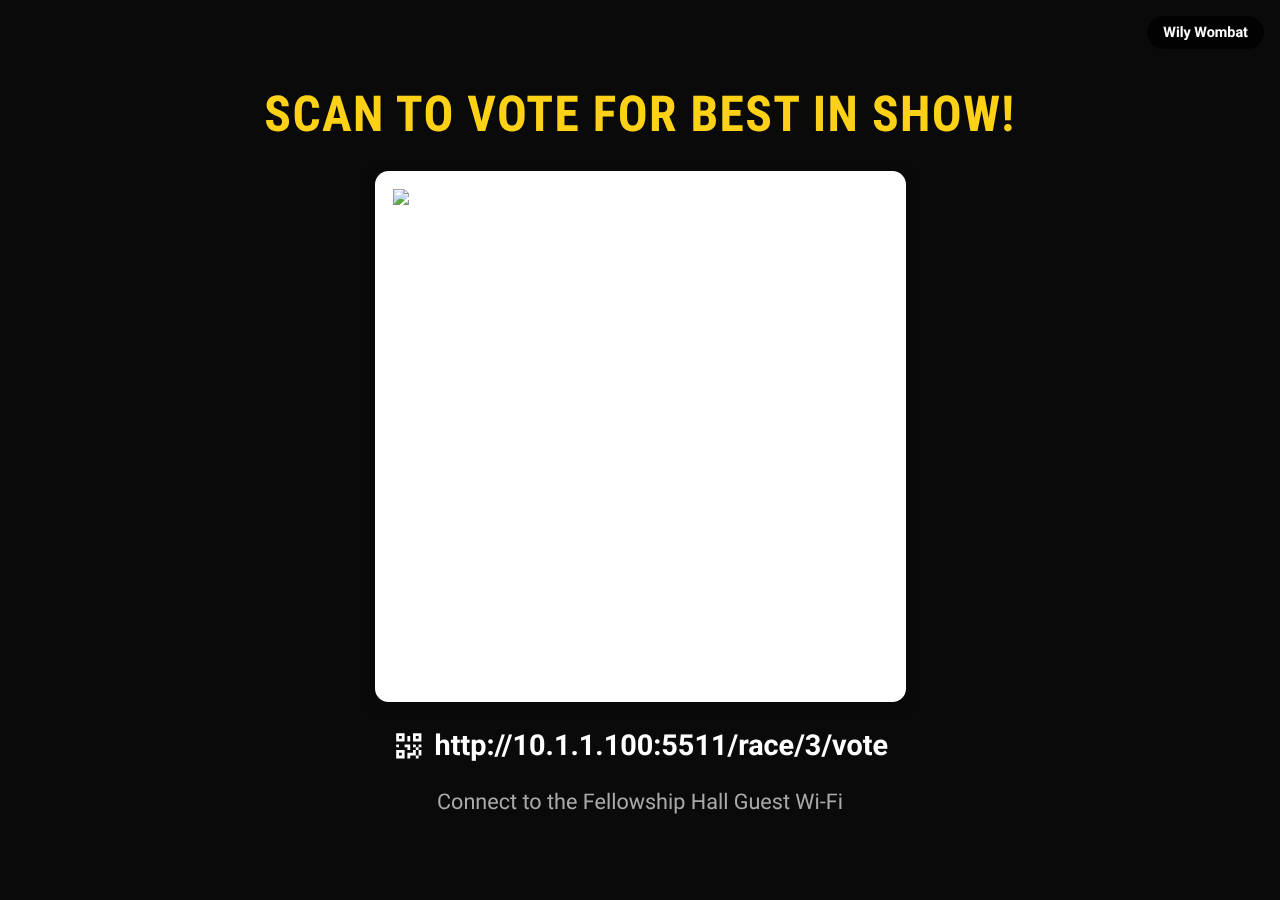
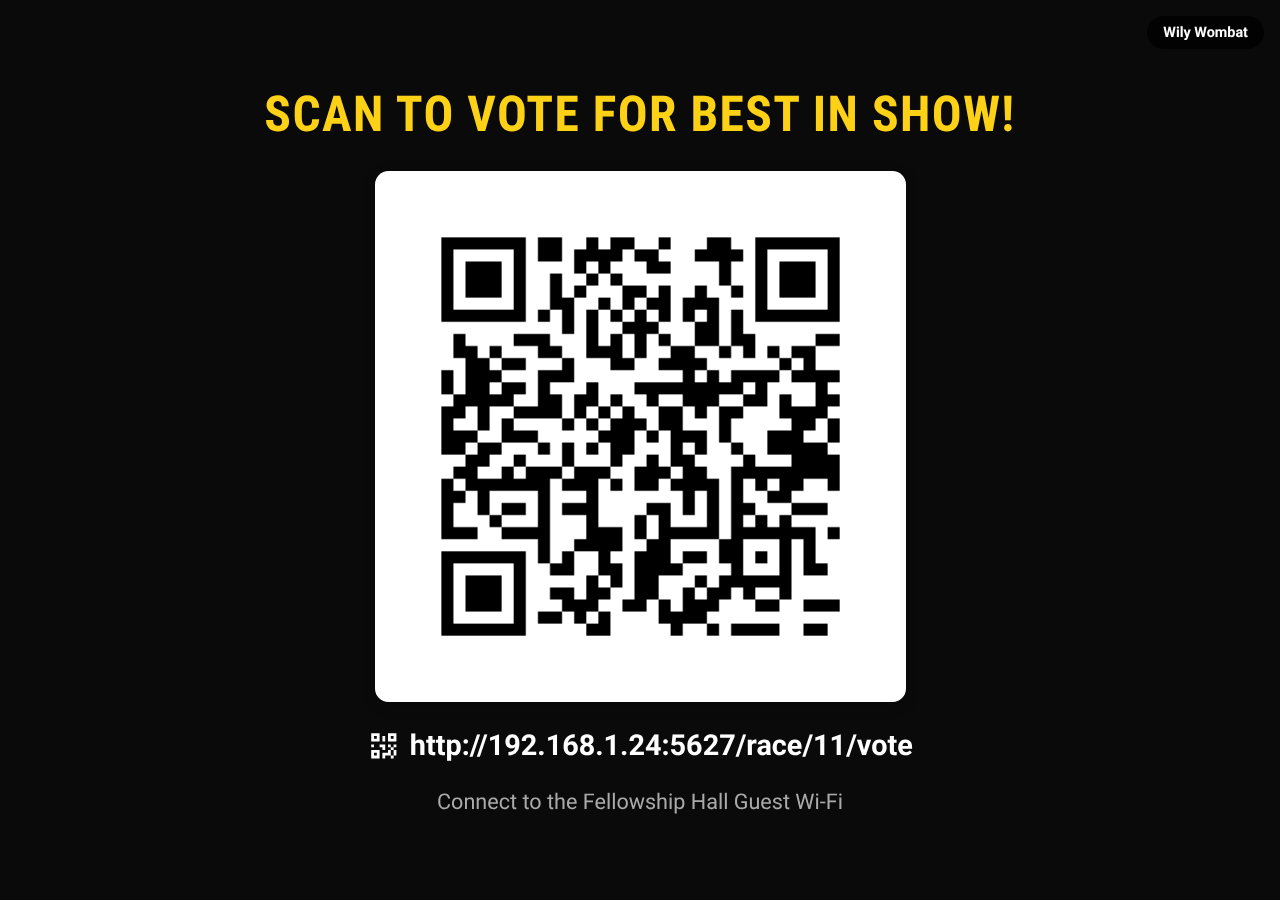
Vote QR: accept the page's own port, and degrade instead of a broken image
The frontend builds the QR code's `url` from window.location.port — the
port the page loaded on — but /printables/vote-qr's port check only ever
trusted request.url.port, the port the backend answered on. Those agree in
a single-process production install, and disagree under the Vite dev proxy
(and the e2e/docs-screenshot run that inherits it), because changeOrigin
rewrites the Host header the backend sees. The published docs were built
by that run, so observation/08-displays-panel.png and observation/13-qrcode.png
showed a broken image.

_validate_vote_qr_url now also trusts the port named in a Referer or Origin
header, but only for a host the request has already proven belongs to this
instance (the same allowed_hosts set #866/#922 built) — so forging the
header can widen which port is accepted, never which host, which is the
guarantee #922 exists to protect. New tests cover both: a page-port match
via Referer is accepted, and a phishing host is still refused even with a
matching Referer.

ConnectDisplayAddress, BallotShare and QRCodeDisplayView all gained
onError on their <img>, so a refused code degrades to the address already
printed alongside it (the full-screen display view enlarges it and says to
type it) rather than to alt text on a projector.

Regenerated observation/08-displays-panel.png and observation/13-qrcode.png,
which are on the drift gate's exclusion list (#925) — confirmed they are
still non-deterministic under the full parallel doc-screenshot run (the
[…]

Changed region(s): [[0.3438, 0.2489, 0.6562, 0.7156], [0.2812, 0.8089, 0.7188, 0.84]]

diff --git a/frontend/src/features/observation/components/QRCodeDisplayView.tsx b/frontend/src/features/observation/components/QRCodeDisplayView.tsx
@@ -16,6 +16,7 @@
  * display and its ballot, the same two pages the backend's own guard allows.
  */
 
+import { useState } from 'react';
 import { useQuery } from 'urql';
 import { Icon } from '@mdi/react';
 import { mdiAlertOutline, mdiQrcode } from '@mdi/js';
@@ -37,6 +38,7 @@ interface Props {
 
 export default function QRCodeDisplayView({ raceId, target, headline, wifiNote }: Props) {
     const [result] = useQuery({ query: NETWORK_ADDRESSES_QUERY });
+    const [qrFailed, setQrFailed] = useState(false);
     const networkAddresses = result.data?.networkAddresses ?? [];
     const mdnsHostname = result.data?.mdnsHostname ?? null;
 
@@ -48,6 +50,7 @@ export default function QRCodeDisplayView({ raceId, target, headline, wifiNote }
     const path = qrTargetPath(target, raceId);
     const { url, reachable } = shareUrl(window.location.origin, path, networkAddresses, mdnsHostname);
     const line = resolveQrHeadline(headline, target);
+    const showQr = reachable && !qrFailed;
 
     return (
         <div
@@ -75,8 +78,9 @@ export default function QRCodeDisplayView({ raceId, target, headline, wifiNote }
                 {line}
             </h1>
 
-            {reachable ? (
+            {showQr ? (
                 <img
+                    key={url}
                     src={qrCodeSrc(raceId, url)}
                     alt={`QR code that opens ${url}`}
                     style={{
@@ -87,6 +91,7 @@ export default function QRCodeDisplayView({ raceId, target, headline, wifiNote }
                         borderRadius: '1.5vmin',
                         boxShadow: '0 0.4vmin 1.5vmin rgba(0,0,0,0.2)',
                     }}
+                    onError={() => setQrFailed(true)}
                 />
             ) : (
                 <div
@@ -102,9 +107,9 @@ export default function QRCodeDisplayView({ raceId, target, headline, wifiNote }
                 >
                     <Icon path={mdiAlertOutline} size={3} />
                     <span style={{ fontSize: '2.4vmin' }}>
-                        Trusty Track could not find this machine&apos;s network address. Try
-                        typing the address below into a phone&apos;s browser to check whether it
-                        works from this venue&apos;s Wi-Fi.
+                        {reachable
+                            ? "Trusty Track could not draw a QR code for this address. Type the address below into a phone's browser instead."
+                            : "Trusty Track could not find this machine's network address. Try typing the address below into a phone's browser to check whether it works from this venue's Wi-Fi."}
                     </span>
                 </div>
             )}

diff --git a/frontend/src/features/observation/components/QRCodeDisplayView.test.tsx b/frontend/src/features/observation/components/QRCodeDisplayView.test.tsx
@@ -1,7 +1,7 @@
 // @vitest-environment jsdom
 import '../../../setupTests';
 import { afterEach, beforeEach, describe, expect, it, vi } from 'vitest';
-import { render, screen, cleanup } from '@testing-library/react';
+import { act, render, screen, cleanup } from '@testing-library/react';
 import { useQuery } from 'urql';
 import QRCodeDisplayView from './QRCodeDisplayView';
 
@@ -125,6 +125,24 @@ describe('QRCodeDisplayView (#614)', () => {
         const alert = screen.getByRole('alert');
         expect(alert).toHaveStyle({ color: 'var(--display-warning-color)' });
         expect(alert.style.color).not.toContain('--warning-color)');
+    });
+
+    it('falls back to the enlarged address once the code fails to load (#944)', () => {
+        stubOrigin('http://localhost:8000');
+        mockNetworkAddresses(['192.168.1.42']);
+
+        render(<QRCodeDisplayView raceId={7} target="STANDINGS" />);
+
+        const image = screen.getByAltText(/qr code/i);
+        act(() => {
+            image.dispatchEvent(new Event('error'));
+        });
+
+        expect(screen.queryByAltText(/qr code/i)).toBeNull();
+        expect(screen.getByRole('alert')).toHaveTextContent(/type the address below/i);
+        expect(
+            screen.getByText(/192\.168\.1\.42:8000\/race\/7\/observation/),
+        ).toBeInTheDocument();
     });
 
     it('shows the venue wifi note when set', () => {

diff --git a/frontend/src/features/observation/components/ConnectDisplayAddress.tsx b/frontend/src/features/observation/components/ConnectDisplayAddress.tsx
@@ -29,6 +29,7 @@ import { NETWORK_ADDRESSES_QUERY } from '../graphql/queries';
 export default function ConnectDisplayAddress({ raceId }: { raceId: number }) {
     const [result] = useQuery({ query: NETWORK_ADDRESSES_QUERY });
     const [copied, setCopied] = useState(false);
+    const [qrFailed, setQrFailed] = useState(false);
 
     if (typeof window === 'undefined') return null;
 
@@ -84,13 +85,15 @@ export default function ConnectDisplayAddress({ raceId }: { raceId: number }) {
                     into the other screen's browser to check before relying on it.
                 </span>
             )}
-            {reachable && (
+            {reachable && !qrFailed && (
                 <img
+                    key={url}
                     src={qrCodeSrc(raceId, url)}
                     alt="QR code that opens this race's live display"
                     width={100}
                     height={100}
                     style={{ border: '1px solid var(--border-color)', borderRadius: '8px' }}
+                    onError={() => setQrFailed(true)}
                 />
             )}
         </div>

diff --git a/frontend/src/features/observation/components/ConnectDisplayAddress.test.tsx b/frontend/src/features/observation/components/ConnectDisplayAddress.test.tsx
@@ -1,4 +1,4 @@
-import { render, screen, waitFor } from '@testing-library/react';
+import { act, render, screen, waitFor } from '@testing-library/react';
 import userEvent from '@testing-library/user-event';
 import { afterEach, beforeEach, describe, expect, it, vi } from 'vitest';
 import { useQuery } from 'urql';
@@ -114,6 +114,23 @@ describe('ConnectDisplayAddress', () => {
     render(<ConnectDisplayAddress raceId={1} />);
 
     expect(screen.queryByAltText(/qr code/i)).toBeNull();
+  });
+
+  it('hides the QR code once it fails to load, leaving the printed address (#944)', () => {
+    stubOrigin('http://localhost:8000');
+    mockNetworkAddresses(['192.168.1.42']);
+
+    render(<ConnectDisplayAddress raceId={1} />);
+
+    const image = screen.getByAltText(/qr code/i);
+    act(() => {
+      image.dispatchEvent(new Event('error'));
+    });
+
+    expect(screen.queryByAltText(/qr code/i)).toBeNull();
+    expect(
+      screen.getByText(/http:\/\/192\.168\.1\.42:8000\/race\/1\/observation/),
+    ).toBeInTheDocument();
   });
 
   it('copies the shown address on click', async () => {

diff --git a/frontend/src/features/awards/components/BallotShare.test.tsx b/frontend/src/features/awards/components/BallotShare.test.tsx
@@ -1,4 +1,4 @@
-import { render, screen, waitFor } from '@testing-library/react';
+import { act, render, screen, waitFor } from '@testing-library/react';
 import userEvent from '@testing-library/user-event';
 import { afterEach, beforeEach, describe, expect, it, vi } from 'vitest';
 import { useQuery } from 'urql';
@@ -108,6 +108,21 @@ describe('BallotShare', () => {
     render(<BallotShare raceId={1} />);
 
     expect(screen.queryByAltText(/qr code/i)).toBeNull();
+  });
+
+  it('hides the QR code once it fails to load, leaving the printed address (#944)', () => {
+    stubOrigin('http://localhost:8000');
+    mockNetworkAddresses(['192.168.1.42']);
+
+    render(<BallotShare raceId={1} />);
+
+    const image = screen.getByAltText(/qr code/i);
+    act(() => {
+      image.dispatchEvent(new Event('error'));
+    });
+
+    expect(screen.queryByAltText(/qr code/i)).toBeNull();
+    expect(screen.getByText(/http:\/\/192\.168\.1\.42:8000\/race\/1\/vote/)).toBeInTheDocument();
   });
 
   it('copies the shown address on click', async () => {

diff --git a/frontend/src/features/awards/components/BallotShare.tsx b/frontend/src/features/awards/components/BallotShare.tsx
@@ -25,6 +25,7 @@ interface BallotShareProps {
 export default function BallotShare({ raceId }: BallotShareProps) {
   const [result] = useQuery({ query: NETWORK_ADDRESSES_QUERY });
   const [copied, setCopied] = useState(false);
+  const [qrFailed, setQrFailed] = useState(false);
 
   if (typeof window === 'undefined') return null;
 
@@ -78,13 +79,15 @@ export default function BallotShare({ raceId }: BallotShareProps) {
           it into a phone's browser to check before relying on it.
         </span>
       )}
-      {reachable && (
+      {reachable && !qrFailed && (
         <img
+          key={url}
           src={qrCodeSrc(raceId, url)}
           alt="QR code that opens the voting page"
           width={120}
           height={120}
           style={{ border: '1px solid var(--border-color)', borderRadius: '8px' }}
+          onError={() => setQrFailed(true)}
         />
       )}
       {/* The full-screen answer to this whole panel (#614): rather than

diff --git a/backend/api/main.py b/backend/api/main.py
@@ -656,6 +656,37 @@ def _validate_vote_qr_url(url: str, race_id: int, request: Request) -> None:
         allowed_ports: set[int] = {80, 443, discovery._candidate_port()}
         if request.url.port is not None:
             allowed_ports.add(request.url.port)
+
+        # `request.url.port` is the port *this process* answered the HTTP
+        # request on — right for a single-process production install, wrong
+        # under the Vite dev proxy (and the e2e/docs-screenshot run that
+        # inherits it): the browser fetches this image from the page's own
+        # origin, `changeOrigin` rewrites the Host header the backend sees,
+        # and `shareAddress.ts` built `url` from `window.location.port`, the
+        # port the *page* loaded on, not the one the proxied request
+        # arrives with (#944). For an ordinary same-origin `<img>` fetch a
+        # real browser sets `Referer` (and sometimes `Origin`) to the page's
+        # own address, which is exactly that port — so a request carrying
+        # one is worth widening the allowed *port* set for. A raw HTTP
+        # client can of course forge either header, so this is not treated
+        # as proof of anything beyond that: the port it names is only ever
+        # trusted for a *host* this request has already been checked against
+        # (`allowed_hosts`, computed above from this server's own addresses)
+        # — never against `parsed`'s own host — so forging the header can
+        # widen which port on this instance is accepted, never which host.
+        # That is exactly the guarantee #866/#922 added the host check for.
+        for header_name in ("referer", "origin"):
+            header_value = request.headers.get(header_name)
+            if not header_value:
+                continue
+            try:
+                header_parsed = urllib.parse.urlparse(header_value)
+            except Exception:
+                continue
+            header_host = (header_parsed.hostname or "").lower().strip("[]")
+            if header_host in allowed_hosts and header_parsed.port is not None:
+                allowed_ports.add(header_parsed.port)
+
         if parsed.port not in allowed_ports:
             raise HTTPException(
                 status_code=400,

diff --git a/backend/tests/test_printables.py b/backend/tests/test_printables.py
@@ -321,6 +321,38 @@ class TestVotingQrEndpoint:
         assert response.status_code == 400
         assert "port" in response.json()["detail"].lower()
 
+    def test_a_referer_port_matching_the_page_is_allowed(self, client, race) -> None:
+        """The frontend builds `url` from `window.location.port` — the port
+        the *page* was served on — but under a dev proxy (or the e2e/docs
+        screenshot run) the request to this endpoint arrives with a
+        different port on `request.url`, because the proxy rewrites the Host
+        header it forwards (#944). The browser sets `Referer` to the page's
+        own address for an ordinary same-origin `<img>` fetch, which is
+        exactly the port `url` was built with, so a request carrying that
+        header for a matching host is accepted rather than refused."""
+        response = client.get(
+            f"/api/printables/vote-qr/{race.id}.png",
+            params={"url": f"http://localhost:5173/race/{race.id}/vote"},
+            headers={"referer": f"http://localhost:5173/race/{race.id}/observation"},
+        )
+        assert response.status_code == 200
+        assert response.headers["content-type"] == "image/png"
+
+    def test_a_referer_port_for_an_unrelated_host_is_still_refused(
+        self, client, race
+    ) -> None:
+        """The `Referer` header only ever widens the allowed *port* for a
+        host this request has already proven belongs to this instance
+        (#866, #922) — it can never widen the allowed *host*. A phishing URL
+        stays refused even when the caller forges a matching `Referer`."""
+        response = client.get(
+            f"/api/printables/vote-qr/{race.id}.png",
+            params={"url": f"https://evil.example:5173/race/{race.id}/vote"},
+            headers={"referer": f"https://evil.example:5173/race/{race.id}/vote"},
+        )
+        assert response.status_code == 400
+        assert "not this server instance" in response.json()["detail"].lower()
+
     @pytest.mark.parametrize(
         "host",
         ["localhost", "127.0.0.1", "[::1]"],
